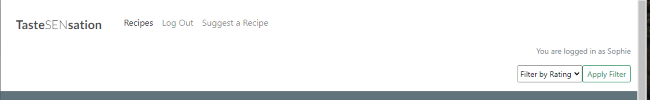
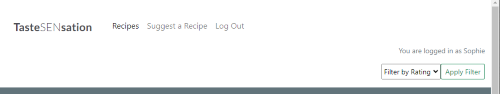
Add multi screen mock up and replace log out and registered user nav bar images.

Changed region(s): [[0.0, 0.0, 1.0, 1.0], [0.0, 0.1915, 0.51, 0.3404]]

diff --git a/README.md b/README.md
@@ -6,6 +6,8 @@ Users are invited to sign up to rate and comment on the recipes so that other vi
 
 The simple, uncluttered layout and use of additional visual prompts help to make the site easy to understand and navigate with minimal distractions. This means that SEN users are more likely to be able to use the site and follow the steps unaided.
 
+![TasteSENsation mock up on multiple devices](docs/readme-images/multi-screen-mock-up.png)
+
 ## User Authentication
 
 Users are required to sign up and log in to access certain functionality or areas of the TasteSENsation site.
@@ -65,7 +67,7 @@ Once registered, a user can log in via the Log In (login.html) page whever they 
 
 ![Screenshot of Log In page](docs/readme-images/log-in-page.png)
 
-Once logged in the registered user will see a note in the nav bar to confirm that they are logged as a specified user. The 'Sign Up' and 'Log In' nav links are then hidden to the user, but a Log Out link becomes visible.
+Once logged in the registered user will see a note in the nav bar to confirm that they are logged as a specified user. The 'Sign Up' and 'Log In' nav links are then hidden to the user, but 'Suggest Recipe' and 'Log Out' links become visible.
 
 ![Screenshot of registered user nav bar](docs/readme-images/registered-user-nav-bar.png)
 
